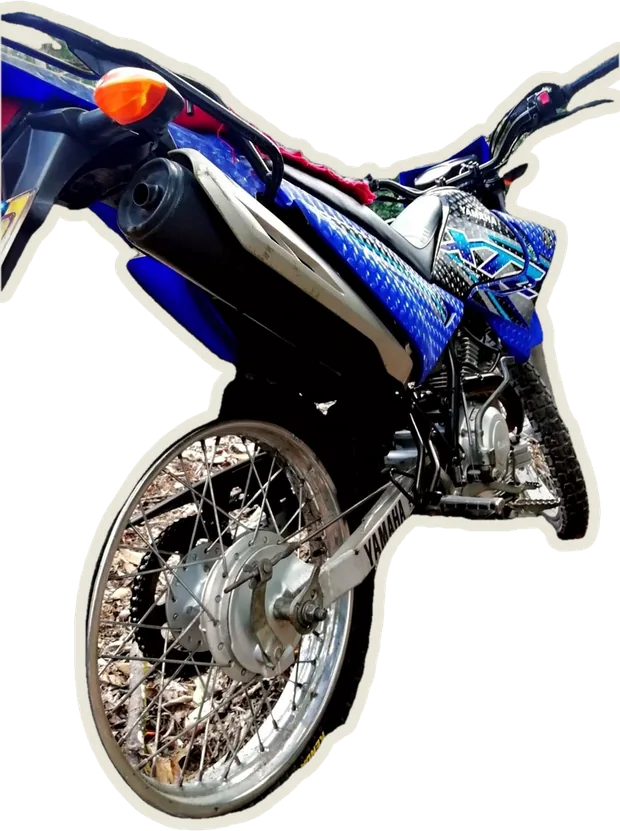
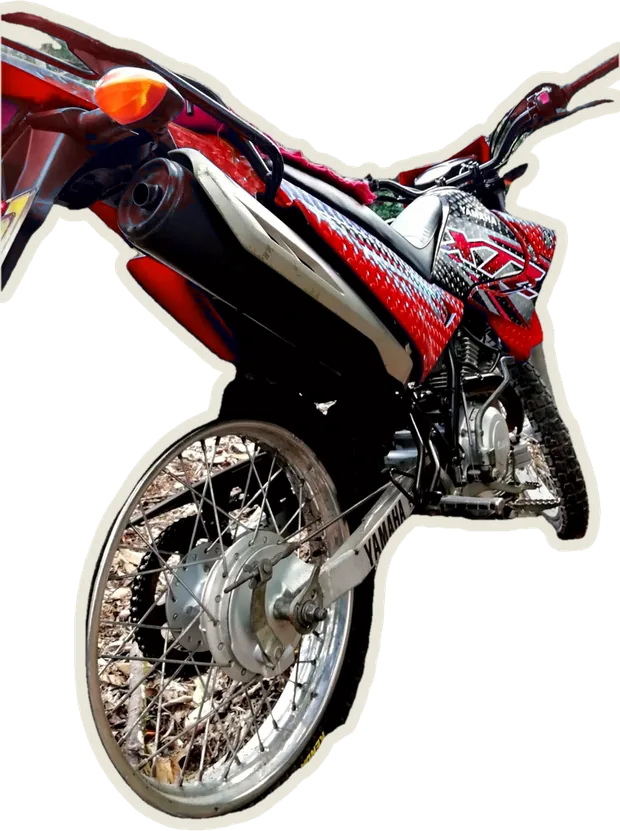
fix(v3.1): la moto en rojo de freno para que case con la paleta
El azul eléctrico de la Yamaha chocaba con el asfalto, el oro y el amarillo
taxi. Se lleva la carrocería (solo los azules saturados; rines, llantas y
sombras no se tocan) al rojo de freno, en el montaje del héroe, en los ecos,
en la ficha y en el sticker de la moto del bosque. Se probaron verde tóxico,
rojo y oro: el verde daba aire de semáforo con el sol amarillo y el oro se
perdía en el sol. Textos alternativos sin el color.

diff --git a/site/public/v3-1/index.html b/site/public/v3-1/index.html
@@ -146,7 +146,7 @@
       <svg class="chispa chispa--d" aria-hidden="true"><use href="#s-chispa"/></svg>
       <p class="insignia" aria-label="Desde 2019"><svg viewBox="0 0 120 120" aria-hidden="true"><path d="M60 3l9 17 17-9 3 19 19 2-8 17 16 10-14 13 9 17-19 2-2 19-17-8-10 16-11-15-17 8-3-19-19-2 8-17-16-10 14-13-9-17 19-2 2-19 17 8z" fill="#d4a017" stroke="#000" stroke-width="5" stroke-linejoin="round"/></svg><span>Desde<b>2019</b></span></p>
       <div class="moto__mueve">
-        <img class="moto__foto" src="/v3-1/img/dt.webp" alt="Un piloto con gorra, lentes y camiseta naranja sobre la Yamaha azul de Iván, en un fotomontaje" width="1300" height="1129" fetchpriority="high" decoding="async">
+        <img class="moto__foto" src="/v3-1/img/dt.webp" alt="Un piloto con gorra, lentes y camiseta naranja sobre la Yamaha de Iván, en un fotomontaje" width="1300" height="1129" fetchpriority="high" decoding="async">
         <span class="moto__faro" id="moto-faro" aria-hidden="true" style="left:69.98%;top:45.23%"></span>
         <span class="moto__cola" id="moto-cola" aria-hidden="true" style="left:1.87%;top:46.21%;height:9.8%"></span>
         <span class="moto__globo" aria-hidden="true">¡brrm!</span>
@@ -480,7 +480,7 @@
           <figcaption>2019</figcaption>
         </figure>
         <figure class="foto foto--m foto--die">
-          <div class="foto__marco"><img src="/v3-1/img/sticker-moto-bosque.webp" alt="La moto azul vista desde atrás, recortada como un sticker" width="620" height="831" loading="lazy" decoding="async"></div>
+          <div class="foto__marco"><img src="/v3-1/img/sticker-moto-bosque.webp" alt="La moto vista desde atrás, recortada como un sticker" width="620" height="831" loading="lazy" decoding="async"></div>
           <figcaption>La moto</figcaption>
         </figure>
         <figure class="foto foto--s">
